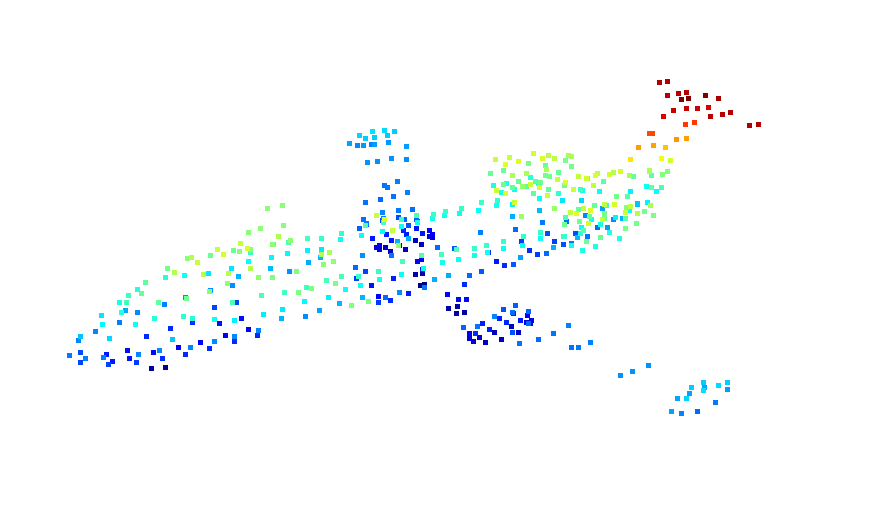
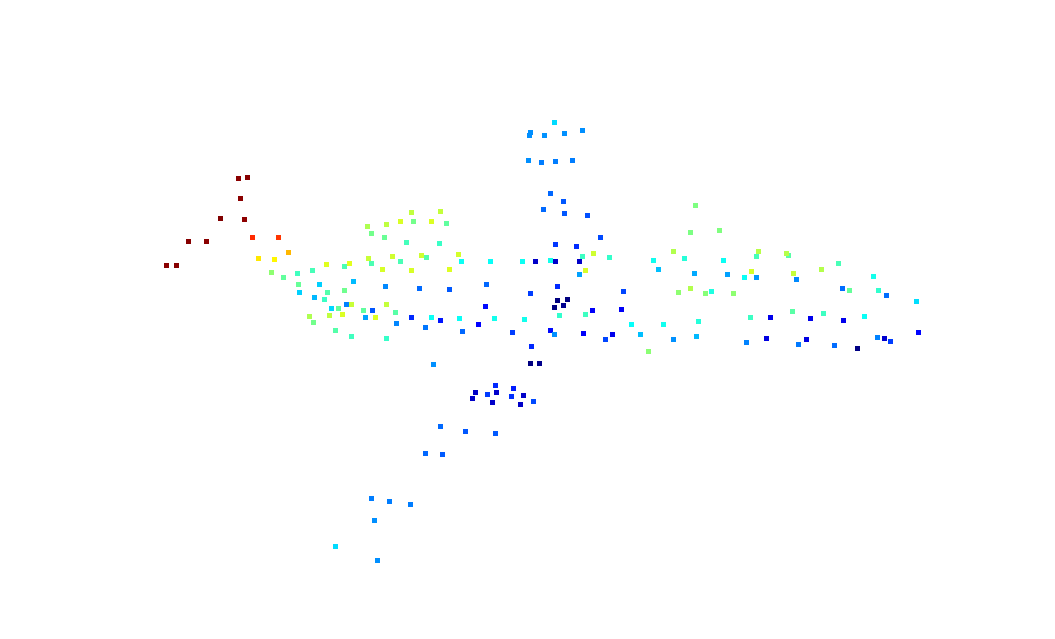
solve hash conflict

diff --git a/ch1_introduction/hw1/lesson one/voxel_filter.py b/ch1_introduction/hw1/lesson one/voxel_filter.py
@@ -3,13 +3,23 @@
 import open3d as o3d 
 import os
 import numpy as np
+import pandas as pd
 from pyntcloud import PyntCloud
+from functools import cmp_to_key
+
+
+def hash_table_conflict(h_lhs, h_rhs):
+    if h_lhs[0] == h_rhs[0] and h_lhs[1] == h_rhs[1] and h_lhs[2] == h_rhs[2]:
+        return False
+    else:
+        return True
+
 
 # 功能：对点云进行voxel滤波
 # 输入：
 #     point_cloud：输入点云
 #     leaf_size: voxel尺寸
-def voxel_filter(point_cloud, leaf_size):
+def voxel_filter(point_cloud, leaf_size, random_downsampling = False):
     point_cloud = np.asarray(point_cloud)
     print("Number of point clouds is", len(point_cloud))
     filtered_points = []
@@ -23,7 +33,7 @@ def voxel_filter(point_cloud, leaf_size):
     Dx = (x_max - x_min) // leaf_size
     Dy = (y_max - y_min) // leaf_size
     Dz = (z_max - z_min) // leaf_size
-         
+    container_size = Dx * Dy * Dz
     # compute voxel idx for each point
     h = list()
     
@@ -31,21 +41,37 @@ def voxel_filter(point_cloud, leaf_size):
         x,y,z = point_cloud[i]
         hx = np.floor((x - x_min) / leaf_size)
         hy = np.floor((y - y_min) / leaf_size)
-        hz = np.floor((z - z_min) / leaf_size) 
-        h.append(int(hx + hy * Dx + hz * Dx * Dy))
+        hz = np.floor((z - z_min) / leaf_size)
+        hash_table = int(hx + hy * Dx + hz * Dx * Dy) % container_size
+        h.append(np.asarray([hx, hy, hz, hash_table]))
+        # h.append(hash_table)
+    # h_sorted = np.asarray(sorted(h, key = cmp_to_key(lambda lhs, rhs : lhs[3] - rhs[3]))) # 点在第几个voxel
     
-    h_sorted = sorted(h) # 点在第几个voxel
-    h_sorted_idx = np.argsort(h)
+    h = np.asarray(h)
+    # current_h_sorted_idx = np.lexsort((current_h[:,0], current_h[:,1]))
+    h_sorted_idx =np.lexsort((h[:,-1], h[:,0], h[:,1])) # 按照h的最后一列排序,再按照第一列排序，再按照第二列排序
+    h_sorted = h[h_sorted_idx]
+    # h_sorted_idx = np.argsort(h)
     current_voxel = list()
-    
+    current_h = list()
+
     for i in range(point_cloud.shape[0] -1):
-        if h_sorted[i] == h_sorted[i + 1]:
+        if h_sorted[i, -1] == h_sorted[i + 1, -1] and not hash_table_conflict(h_sorted[i,0:3], h_sorted[i+1, 0:3]):
             current_voxel.append(point_cloud[h_sorted_idx[i]])
+            # current_h.append(h_sorted[i, 0:3])
         else:
-            # point_idx = h_sorted_idx[begin: i + 1]
             current_voxel.append(point_cloud[h_sorted_idx[i]])
-            filtered_points.append(np.mean(np.array(current_voxel), axis = 0))
+            # current_h.append(h_sorted[i, 0:3])
+            
+            if(random_downsampling == False):
+                filtered_points.append(np.mean(np.array(current_voxel), axis = 0))
+            else:
+                # random_idx = np.random.choice(range(len(current_voxel)), 1)
+                random_idx = np.random.randint(len(current_voxel), size = 1)
+                filtered_points.append(current_voxel[int(random_idx)])
             current_voxel.clear()
+            # current_h.clear()
+
     # 屏蔽结束
 
     # 把点云格式改成array，并对外返回
@@ -67,11 +93,11 @@ def main():
 
     # 转成open3d能识别的格式
     point_cloud_o3d = point_cloud_pynt.to_instance("open3d", mesh=False)
-    o3d.visualization.draw_geometries([point_cloud_o3d]) # 显示原始点云
+    # o3d.visualization.draw_geometries([point_cloud_o3d], "Orignal point cloud") # 显示原始点云
 
     # 调用voxel滤波函数，实现滤波
 
-    filtered_cloud = voxel_filter(point_cloud_pynt.points, 0.1)
+    filtered_cloud = voxel_filter(point_cloud_pynt.points, 100.0, True)
     point_cloud_o3d.points = o3d.utility.Vector3dVector(filtered_cloud)
     # 显示滤波后的点云
     o3d.visualization.draw_geometries([point_cloud_o3d],"Voxel grid downsampling")

diff --git a/ch1_introduction/README.md b/ch1_introduction/README.md
@@ -164,7 +164,7 @@
     <div style="color:orange; border-bottom: 1px solid #d9d9d9;
     display: inline-block;
     color: #999;
-    padding: 2px;">Fig.6 Voxel Grid下采样</div>
+    padding: 2px;">Fig.6 Voxel Grid下采样， leaf_size = 30.0, filtered_pts = 212</div>
 </center>
 <br>
 
@@ -191,7 +191,7 @@
 <br>
 <br>
 
-* 如何理解hash table的冲突问题，举个例子:
+* 如何理解**hash table的冲突问题**，举个例子:
     <br>
 根据ppt公式，假如一组点的参数如下所示：
   <br>
@@ -199,9 +199,20 @@ $$x_{max} = 5.0, y_{max} = 5.0, z_{max} = 4.0$$
 $$x_{min} = 0.0, y_{min} = 0.0, z_{min} = 0.0$$
 所以：
 <br>
+$$leaf_{size} = 1$$
 $$D_x = 5, D_y = 5, D_z = 4$$ 
 $$container\_size = 5 * 5 * 4 = 100$$
-对于点 [0.9,0.8.0,7], [1.1,4.3,3.9] 和 [0.1,0.1,4.9], 
+对于点 [0.9,0.8.0,7], [5.0,4.3,3.9] 和 [0.1,0.1,4.0], 
 <br>均有
 $$h\%100 = 0$$
 所以天南海北的点汇集到同一个0th container，出现hash table的冲突。
+
+* 如何解决冲突
+  <br>
+  1. 发现冲突：
+  2. 解决冲突：
+   ~~~ pseudocode
+   point_front = current_voxel[0]
+    while(there is still points):
+        for point in current_voxel:
+            point.x == po
